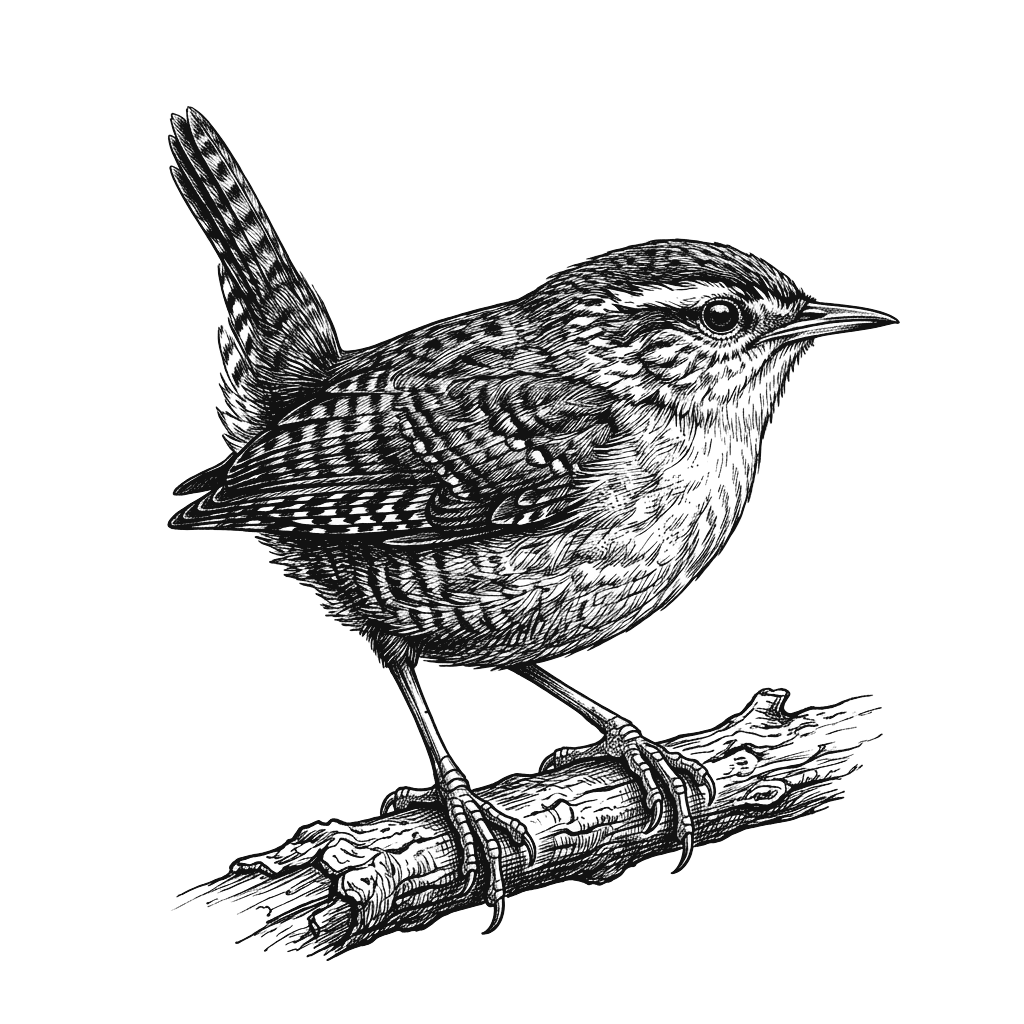
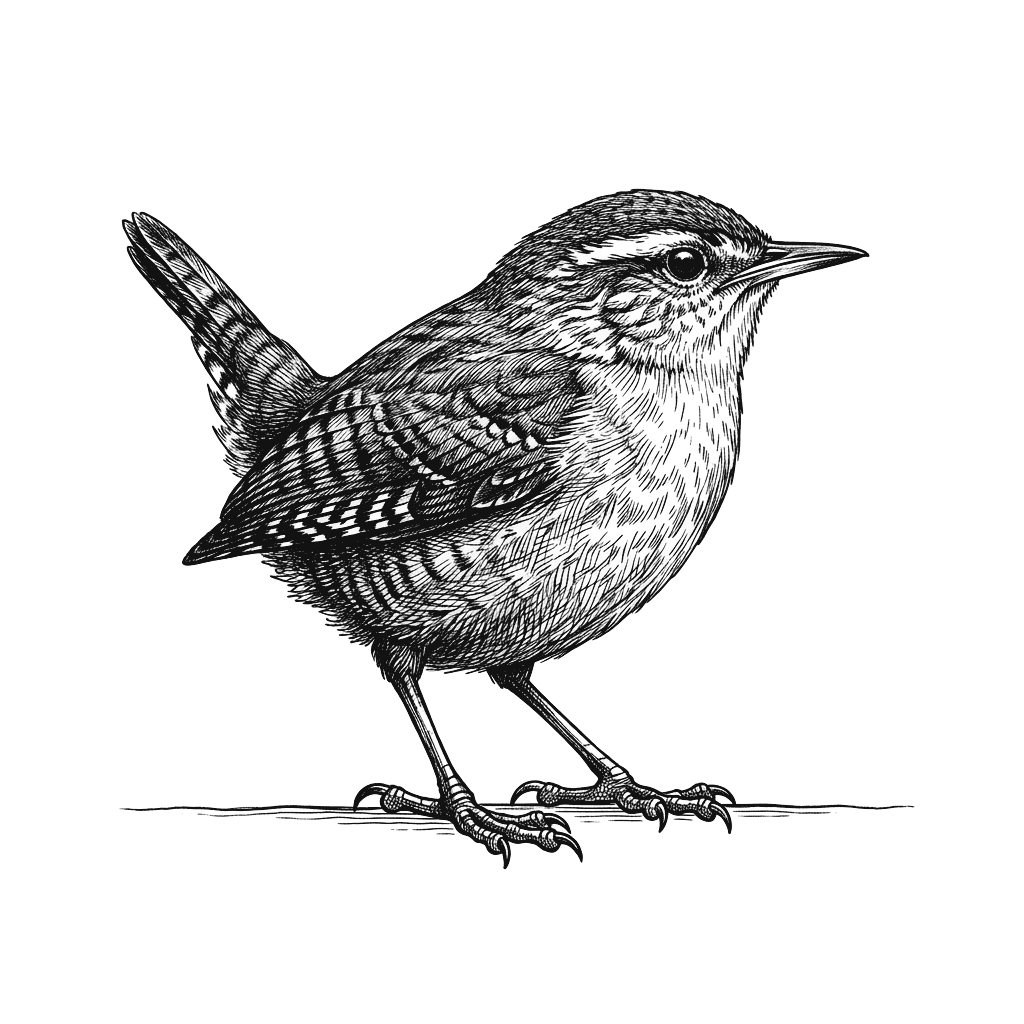
feat: make bird stand directly on words of headings with no branch or stem & add precision word landing

Changed region(s): [[0.125, 0.0938, 0.875, 0.9375]]

diff --git a/components/marketing/FlyingWren.tsx b/components/marketing/FlyingWren.tsx
@@ -10,7 +10,7 @@ interface BirdPosition {
   scaleX: number;
 }
 
-const NAVBAR_SAFE_Y = 88; // Keeps the bird safely below the fixed navbar
+const NAVBAR_SAFE_Y = 82; // Safe distance below fixed navbar
 
 export function FlyingWren() {
   const [mounted, setMounted] = React.useState(false);
@@ -25,34 +25,72 @@ export function FlyingWren() {
   const trailCount = React.useRef(0);
   const isScrollingTimeout = React.useRef<NodeJS.Timeout | null>(null);
 
-  // Position calculation for a given heading element
-  const getHeadingPerchPos = (el: Element) => {
-    const rect = (el as HTMLElement).getBoundingClientRect();
-    const isWide = rect.width > 240;
-    // Perch cleanly on the upper right corner of the heading text
-    const posX = isWide
-      ? Math.min(rect.right - 10, window.innerWidth - 65)
-      : rect.left + rect.width + 10;
-    const posY = Math.max(NAVBAR_SAFE_Y, rect.top - 28);
+  // Calculates exact coordinates to stand on the last word of any heading
+  const getLastWordPerchPos = React.useCallback((el: Element) => {
+    // 1. Try finding word wrapper elements (e.g. Hero words, demo words)
+    const wordSpans = Array.from(
+      el.querySelectorAll(".word-reveal-wrapper, .demo-title-word, span")
+    ).filter((s) => (s as HTMLElement).innerText && (s as HTMLElement).innerText.trim().length > 0);
 
+    if (wordSpans.length > 0) {
+      const lastSpan = wordSpans[wordSpans.length - 1] as HTMLElement;
+      const rect = lastSpan.getBoundingClientRect();
+      if (rect.width > 0 && rect.height > 0) {
+        return {
+          x: Math.min(window.innerWidth - 56, Math.max(10, rect.left + rect.width * 0.4 - 24)),
+          y: Math.max(NAVBAR_SAFE_Y, rect.top - 46),
+        };
+      }
+    }
+
+    // 2. Try DOM Range on the final text node of the heading
+    try {
+      const walker = document.createTreeWalker(el, NodeFilter.SHOW_TEXT);
+      let lastTextNode: Node | null = null;
+      let node: Node | null = null;
+      while ((node = walker.nextNode())) {
+        if (node.textContent && node.textContent.trim().length > 0) {
+          lastTextNode = node;
+        }
+      }
+
+      if (lastTextNode && lastTextNode.textContent) {
+        const textLen = lastTextNode.textContent.length;
+        const range = document.createRange();
+        range.setStart(lastTextNode, Math.max(0, textLen - 4));
+        range.setEnd(lastTextNode, textLen);
+        const rect = range.getBoundingClientRect();
+        if (rect.width > 0 && rect.height > 0) {
+          return {
+            x: Math.min(window.innerWidth - 56, Math.max(10, rect.left + rect.width * 0.5 - 24)),
+            y: Math.max(NAVBAR_SAFE_Y, rect.top - 46),
+          };
+        }
+      }
+    } catch (e) {
+      // Fallback below
+    }
+
+    // 3. Fallback: Rightmost boundary of heading bounding rect
+    const fallbackRect = (el as HTMLElement).getBoundingClientRect();
     return {
-      x: Math.min(window.innerWidth - 60, Math.max(15, posX)),
-      y: posY,
+      x: Math.min(window.innerWidth - 56, Math.max(10, fallbackRect.right - 46)),
+      y: Math.max(NAVBAR_SAFE_Y, fallbackRect.top - 46),
     };
-  };
+  }, []);
 
-  // Mount and set initial perch on the Hero heading corner
+  // Mount and set initial perch on the Hero heading's last word
   React.useEffect(() => {
     setMounted(true);
 
-    const placeAtHero = () => {
+    const placeAtHeroLastWord = () => {
       const heroHeading =
         document.getElementById("hero-heading") ||
         document.querySelector("[data-bird-target='hero-heading']") ||
         document.querySelector("h1");
 
       if (heroHeading) {
-        const initialPos = getHeadingPerchPos(heroHeading);
+        const initialPos = getLastWordPerchPos(heroHeading);
         targetPos.current = initialPos;
         birdPos.current = { ...initialPos, rotation: 0, scaleX: 1 };
         currentHeadingRef.current = heroHeading;
@@ -61,12 +99,11 @@ export function FlyingWren() {
       }
     };
 
-    // Run on mount and slightly delayed after fonts/layout settle
-    placeAtHero();
-    const timer = setTimeout(placeAtHero, 150);
+    placeAtHeroLastWord();
+    const timer = setTimeout(placeAtHeroLastWord, 180);
 
     return () => clearTimeout(timer);
-  }, []);
+  }, [getLastWordPerchPos]);
 
   // Update target heading based on current scroll position
   const updateTarget = React.useCallback(() => {
@@ -77,7 +114,7 @@ export function FlyingWren() {
     if (!headings.length) return;
 
     const viewportHeight = window.innerHeight;
-    const focusY = viewportHeight * 0.35;
+    const focusY = viewportHeight * 0.35; // Upper-middle reading focus
 
     let closestHeading: Element | null = null;
     let minDistance = Infinity;
@@ -94,7 +131,7 @@ export function FlyingWren() {
     });
 
     if (closestHeading) {
-      const newPos = getHeadingPerchPos(closestHeading);
+      const newPos = getLastWordPerchPos(closestHeading);
       targetPos.current = newPos;
 
       if (closestHeading !== currentHeadingRef.current) {
@@ -103,9 +140,9 @@ export function FlyingWren() {
         setPerched(false);
       }
     }
-  }, []);
+  }, [getLastWordPerchPos]);
 
-  // Scroll listener
+  // Scroll & resize listeners
   React.useEffect(() => {
     if (!mounted) return;
 
@@ -117,7 +154,7 @@ export function FlyingWren() {
       if (isScrollingTimeout.current) clearTimeout(isScrollingTimeout.current);
 
       isScrollingTimeout.current = setTimeout(() => {
-        // Will settle at target in flight loop
+        // Flight physics loop will handle touchdown
       }, 400);
     };
 
@@ -143,30 +180,30 @@ export function FlyingWren() {
       const dy = target.y - current.y;
       const dist = Math.sqrt(dx * dx + dy * dy);
 
-      // Lerp ease
-      const speed = Math.min(0.095, Math.max(0.05, dist * 0.001));
+      // Adaptive speed: fast swoops for long distances, gentle deceleration near words
+      const speed = Math.min(0.098, Math.max(0.052, dist * 0.0011));
 
       if (dist > 3) {
         current.x += dx * speed;
         current.y += dy * speed;
 
-        // Enforce safe navbar upper boundary
-        current.y = Math.max(NAVBAR_SAFE_Y - 10, current.y);
+        // Enforce safe upper navbar boundary
+        current.y = Math.max(NAVBAR_SAFE_Y - 8, current.y);
 
-        // Facing direction
-        if (Math.abs(dx) > 1.5) {
+        // Facing direction based on horizontal travel
+        if (Math.abs(dx) > 1.2) {
           current.scaleX = dx > 0 ? 1 : -1;
         }
 
         // Aerodynamic bank & tilt angle
-        const targetAngle = Math.atan2(dy, Math.abs(dx)) * (180 / Math.PI) * 0.4;
+        const targetAngle = Math.atan2(dy, Math.abs(dx)) * (180 / Math.PI) * 0.38;
         current.rotation += (targetAngle - current.rotation) * 0.12;
 
         setIsFlying(true);
         setPerched(false);
 
-        // Feather dust trail
-        if (dist > 35 && Math.random() < 0.22) {
+        // Golden feather dust trail during flight
+        if (dist > 30 && Math.random() < 0.22) {
           trailCount.current += 1;
           const newParticle = {
             id: trailCount.current,
@@ -176,15 +213,15 @@ export function FlyingWren() {
           setFeatherTrail((prev) => [...prev.slice(-6), newParticle]);
         }
       } else {
-        // Landed cleanly
-        current.rotation += (0 - current.rotation) * 0.15;
+        // Touchdown on the last word's letters!
+        current.rotation += (0 - current.rotation) * 0.16;
         if (isFlying) {
           setIsFlying(false);
           setPerched(true);
         }
       }
 
-      // Direct DOM transform for smooth 60fps rendering
+      // Direct DOM transform for 60fps hardware acceleration
       const birdEl = document.getElementById("flying-wren-companion");
       if (birdEl) {
         birdEl.style.transform = `translate3d(${current.x}px, ${current.y}px, 0) scaleX(${current.scaleX}) rotate(${current.rotation}deg)`;
@@ -213,7 +250,7 @@ export function FlyingWren() {
         />
       ))}
 
-      {/* Main Flying / Perched Wren Bird Companion (High z-index, zero navbar clipping) */}
+      {/* Main Flying / Standing Wren Bird Companion */}
       <div
         id="flying-wren-companion"
         className="absolute top-0 left-0 will-change-transform pointer-events-none"
@@ -244,7 +281,7 @@ export function FlyingWren() {
             />
           </div>
 
-          {/* Perched Pose (Initial load & landing) */}
+          {/* Standing Pose (Feet standing directly on the letters with NO branch/stem) */}
           <div
             className={`absolute inset-0 transition-opacity duration-150 ${
               perched ? "opacity-100 scale-100" : "opacity-0 scale-95"
@@ -252,7 +289,7 @@ export function FlyingWren() {
           >
             <Image
               src="/assets/wren-perched.png"
-              alt="Perched Wren Bird"
+              alt="Standing Wren Bird"
               fill
               priority
               className="object-contain drop-shadow-[0_2px_4px_rgba(0,0,0,0.15)]"
